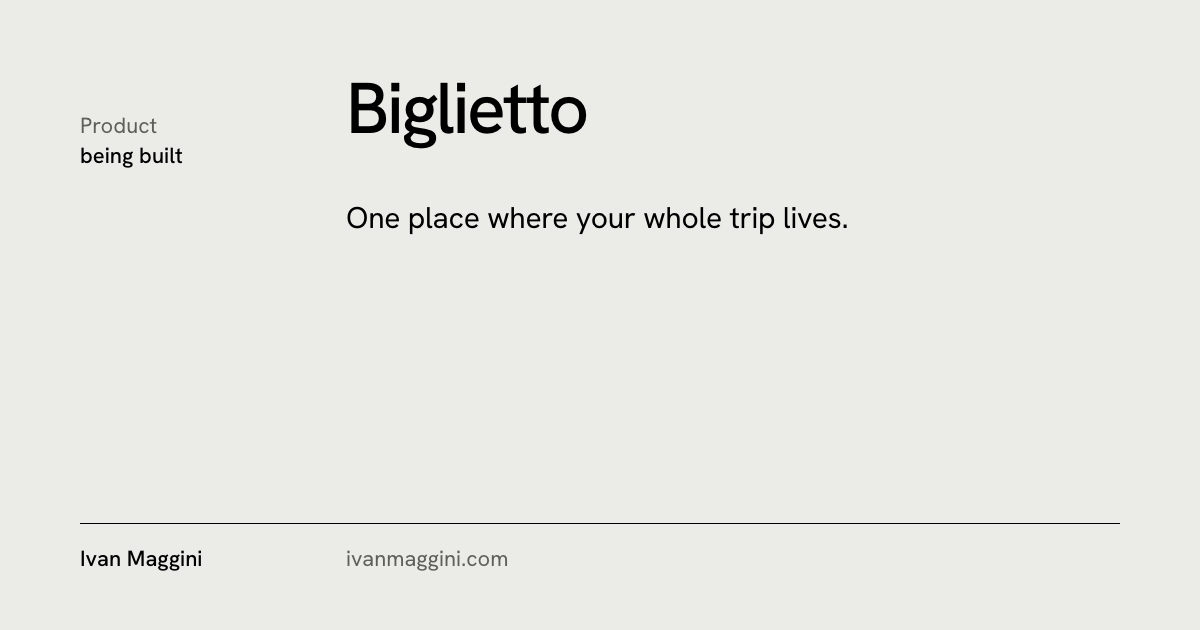
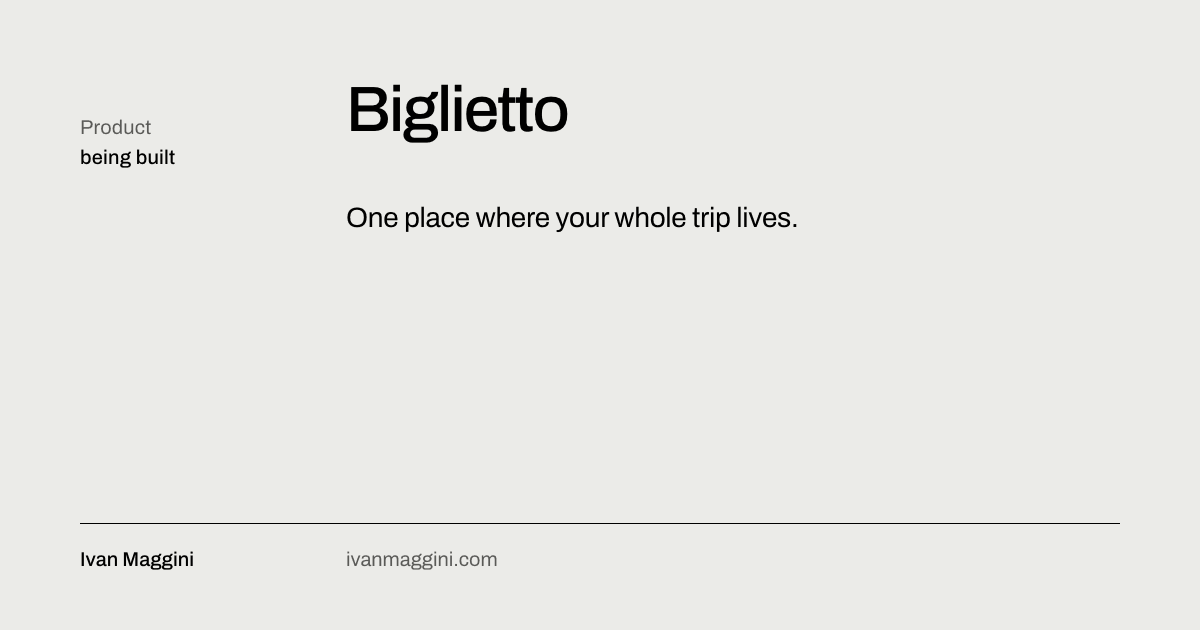
Chi sono con foto segnaposto, social nel piede, anteprime in Archivo
- Home IT ed EN: "Come lavoro" / "How I work" diventano "Chi sono" /
  "About" (#chi-sono, #about), pensati per un testo lungo: testo a 56
  caratteri e due foto segnaposto disegnate in CSS (4:5 e 3:2, sfalsate a
  destra su schermo largo, fra i paragrafi sul telefono). Nuova variabile
  --carta-scura solo per i segnaposto.
- Tolta la domanda "Da dove volete cominciare?" dal benvenuto, nelle due
  lingue.
- Piede di tutte le pagine: riga "Seguimi su" / "Follow me on" con
  Instagram, TikTok e YouTube; indirizzi segnaposto per lingua.
- Segnaposto marcati con data-provvisorio (28); CLAUDE.md elenca cosa va
  riempito prima del merge su main.
- og-biglietto, og-biglietto-en, og-privacy, og-privacy-en rifatte in
  Archivo, stessi testi, circa 10-13 KB l'una.
- Impronta del CSS rigenerata.

diff --git a/assets/site.css b/assets/site.css
@@ -52,6 +52,9 @@
   --carta: #ebebe8;
   --nero: #000000;
   --grigio: #5e5e5a;
+  /* Solo per i segnaposto delle foto: la carta un tono più scura, così il
+     riquadro si vede senza bordi né ombre. Il grigio sopra fa 4,6:1. */
+  --carta-scura: #d9d9d5;
   /* Sul campo nero il grigio della carta non passerebbe: 6,06:1. */
   --grigio-su-nero: #8a8a86;
   /* Solo sul nero (11:1). Sulla carta farebbe 1,6:1, e il vincolo tiene
@@ -301,6 +304,56 @@ a:hover { text-decoration-thickness: 2px; }
 
 @media (min-width: 940px) {
   .benvenuto-foto { grid-column: 10 / 13; grid-row: 1 / span 2; max-width: none; }
+}
+
+/* --- chi sono ------------------------------------------------------------
+   Pensata per un testo lungo. Il testo resta a sinistra in righe di circa
+   56 caratteri; le foto, messe nell'HTML fra un paragrafo e l'altro,
+   sul telefono si inseriscono nel testo e su schermo largo vanno a destra
+   (colonne 10–12), ognuna all'altezza del paragrafo che la precede. Così
+   il testo non lascia vuoti, qualunque sia la sua lunghezza. */
+
+.chi-sono .body > p { max-width: 56ch; }
+
+.foto { margin: 0; }
+
+/* Segnaposto: un riquadro piatto, un tono più scuro della carta, con
+   l'etichetta in basso a sinistra. Niente bordi, angoli o ombre. */
+.foto-riquadro {
+  display: flex;
+  align-items: flex-end;
+  padding: var(--s2);
+  background: var(--carta-scura);
+  color: var(--grigio);
+  font-size: 13px;
+  line-height: 20px;
+  letter-spacing: 0.01em;
+}
+.foto-verticale .foto-riquadro { aspect-ratio: 4 / 5; }
+.foto-orizzontale .foto-riquadro { aspect-ratio: 3 / 2; }
+.foto img { width: 100%; height: auto; }
+
+.chi-sono .foto-verticale { max-width: 75%; }
+
+@media (min-width: 940px) {
+  .chi-sono .body { display: flow-root; }
+  .chi-sono .body > * + * { margin-top: var(--s3); }
+  /* Le foto a destra, sfalsate: la verticale nelle colonne 10–12, la
+     orizzontale un po' più larga e più in basso. */
+  .chi-sono .foto {
+    float: right;
+    clear: right;
+    margin-left: var(--gutter);
+  }
+  .chi-sono .foto-verticale {
+    width: calc((100% - 8 * var(--gutter)) / 9 * 3 + 2 * var(--gutter));
+    max-width: none;
+    margin-top: var(--s5);
+  }
+  .chi-sono .foto-orizzontale {
+    width: calc((100% - 8 * var(--gutter)) / 9 * 4 + 3 * var(--gutter));
+    margin-top: var(--s6);
+  }
 }
 
 /* --- le porte -----------------------------------------------------------
@@ -790,6 +843,21 @@ a:hover { text-decoration-thickness: 2px; }
   .foot-in > .mark { grid-column: 1 / 4; font-size: 13px; line-height: 20px; }
   .foot-in > address { grid-column: 4 / 7; }
   .foot-in > nav { grid-column: 7 / 13; }
+}
+
+/* I social stanno in una riga a sé, solo testo, nello stile del piede: i
+   link sono sottolineati e in nero perché si vedano. */
+.foot .social {
+  display: flex;
+  flex-wrap: wrap;
+  gap: var(--s1) var(--s2);
+  margin: 0;
+  color: var(--grigio);
+}
+.foot .social a { color: var(--nero); font-weight: 500; }
+
+@media (min-width: 940px) {
+  .foot-in > .social { grid-column: 7 / 13; }
 }
 
 /* --- iOS: riconoscimento automatico dei dati ---------------------------

diff --git a/index.html b/index.html
@@ -25,7 +25,7 @@
 <meta name="twitter:card" content="summary_large_image">
 
 <link rel="preload" href="/assets/fonts/archivo.woff2" as="font" type="font/woff2" crossorigin>
-<link rel="stylesheet" href="/assets/site.css?v=2f8d0e2053">
+<link rel="stylesheet" href="/assets/site.css?v=c9df9c7391">
 <link rel="icon" href="/assets/favicon.svg" type="image/svg+xml">
 <link rel="apple-touch-icon" href="/assets/apple-touch-icon.png">
 
@@ -109,7 +109,6 @@
           Non ho una lunga carriera da raccontarvi e non faccio finta di
           averla. Preferisco dirvelo io prima che lo scopriate.
         </p>
-        <p class="domanda entra" style="--n:7">Da dove volete cominciare?</p>
       </div>
     </div>
     <div class="shell">
@@ -324,15 +323,28 @@
     </div>
   </section>
 
-  <section class="sec" id="come-lavoro" aria-labelledby="come-lavoro-t">
+  <!-- Chi sono: pensata per un testo lungo, con le foto fra i paragrafi.
+       Non si anima. -->
+  <section class="sec chi-sono" id="chi-sono" aria-labelledby="chi-sono-t">
     <div class="shell sec-grid">
-      <h2 class="rail" id="come-lavoro-t"><b>Come lavoro</b></h2>
+      <p class="rail">Chi sono</p>
       <div class="body">
+        <h2 id="chi-sono-t">Chi c'è dietro la camera.</h2>
+        <!-- Testo lungo: circa 100 righe (15-20 paragrafi), da scrivere con Ivan. Pensalo a blocchi con titoletti. -->
         <p>
           Ho un modo di lavorare: parto da un problema vero, insisto finché
           funziona e dico per strada anche quello che non funziona.
         </p>
-        <!-- Prossime parti di "Chi sono": 1) il percorso: i viaggi e Instagram; 2) come lavoro con un cliente; 3) Biglietto e perché non toglie tempo allo Studio; 4) una foto -->
+        <!-- Le foto vere saranno <img> con width e height espliciti,
+             loading="lazy" e un alt che descrive la scena, al posto del
+             riquadro; poi va tolto l'attributo dei segnaposto. -->
+        <figure class="foto foto-verticale" data-provvisorio>
+          <div class="foto-riquadro">Foto 1</div>
+        </figure>
+        <figure class="foto foto-orizzontale" data-provvisorio>
+          <div class="foto-riquadro">Foto 2</div>
+        </figure>
+        <!-- Prossime parti di "Chi sono": 1) il percorso: i viaggi e Instagram; 2) come lavoro con un cliente; 3) Biglietto e perché non toglie tempo allo Studio; 4) le foto -->
       </div>
     </div>
   </section>
@@ -370,6 +382,13 @@
       <a href="/privacy">Privacy</a>
       <a href="mailto:general@ivanmaggini.com">general@ivanmaggini.com</a>
     </nav>
+    <!-- sostituire i tre link con i profili veri; aprire in nuova scheda con target="_blank" rel="noopener" -->
+    <p class="social">
+      Seguimi su
+      <a href="#instagram-it" data-provvisorio>Instagram</a>
+      <a href="#tiktok-it" data-provvisorio>TikTok</a>
+      <a href="#youtube-it" data-provvisorio>YouTube</a>
+    </p>
   </div>
 </footer>
 

diff --git a/en/index.html b/en/index.html
@@ -26,7 +26,7 @@
 <meta name="twitter:card" content="summary_large_image">
 
 <link rel="preload" href="/assets/fonts/archivo.woff2" as="font" type="font/woff2" crossorigin>
-<link rel="stylesheet" href="/assets/site.css?v=2f8d0e2053">
+<link rel="stylesheet" href="/assets/site.css?v=c9df9c7391">
 <link rel="icon" href="/assets/favicon.svg" type="image/svg+xml">
 <link rel="apple-touch-icon" href="/assets/apple-touch-icon.png">
 
@@ -112,7 +112,6 @@
           I don't have a long career to tell you about, and I don't pretend
           to. I'd rather tell you myself than have you find out.
         </p>
-        <p class="domanda entra" style="--n:7">Where would you like to start?</p>
       </div>
     </div>
     <div class="shell">
@@ -170,15 +169,27 @@
     </div>
   </section>
 
-  <section class="sec" id="how-i-work" aria-labelledby="how-i-work-t">
+  <!-- Chi sono: pensata per un testo lungo, con le foto fra i paragrafi.
+       Non si anima. Tenere allineato con la versione italiana. -->
+  <section class="sec chi-sono" id="about" aria-labelledby="about-t">
     <div class="shell sec-grid">
-      <h2 class="rail" id="how-i-work-t"><b>How I work</b></h2>
+      <p class="rail">About</p>
       <div class="body">
+        <h2 id="about-t">Who's behind the camera.</h2>
+        <!-- Testo lungo: circa 100 righe (15-20 paragrafi), da scrivere con Ivan. Pensalo a blocchi con titoletti. -->
         <p>
           I have a way of working: I start from a real problem, keep at it
           until it works, and say along the way what isn't working too.
         </p>
-        <!-- Prossime parti di "Chi sono": 1) il percorso: i viaggi e Instagram; 2) come lavoro con un cliente; 3) Biglietto e perché non toglie tempo allo Studio; 4) una foto. Tenere allineato con la versione italiana. -->
+        <!-- Le foto vere saranno <img> con width e height espliciti,
+             loading="lazy" e un alt che descrive la scena, al posto del
+             riquadro; poi va tolto l'attributo dei segnaposto. -->
+        <figure class="foto foto-verticale" data-provvisorio>
+          <div class="foto-riquadro">Foto 1</div>
+        </figure>
+        <figure class="foto foto-orizzontale" data-provvisorio>
+          <div class="foto-riquadro">Foto 2</div>
+        </figure>
       </div>
     </div>
   </section>
@@ -217,6 +228,13 @@
       <a href="/en/privacy">Privacy</a>
       <a href="mailto:general@ivanmaggini.com">general@ivanmaggini.com</a>
     </nav>
+    <!-- sostituire i tre link con i profili veri; aprire in nuova scheda con target="_blank" rel="noopener" -->
+    <p class="social">
+      Follow me on
+      <a href="#instagram-en" data-provvisorio>Instagram</a>
+      <a href="#tiktok-en" data-provvisorio>TikTok</a>
+      <a href="#youtube-en" data-provvisorio>YouTube</a>
+    </p>
   </div>
 </footer>
 

diff --git a/privacy.html b/privacy.html
@@ -24,7 +24,7 @@
 <meta property="og:image:alt" content="Informativa privacy di ivanmaggini.com">
 <meta name="twitter:card" content="summary_large_image">
 <link rel="preload" href="/assets/fonts/archivo.woff2" as="font" type="font/woff2" crossorigin>
-<link rel="stylesheet" href="/assets/site.css?v=2f8d0e2053">
+<link rel="stylesheet" href="/assets/site.css?v=c9df9c7391">
 <link rel="icon" href="/assets/favicon.svg" type="image/svg+xml">
 <link rel="apple-touch-icon" href="/assets/apple-touch-icon.png">
 </head>
@@ -234,6 +234,13 @@
       <a href="/privacy">Privacy</a>
       <a href="mailto:general@ivanmaggini.com">general@ivanmaggini.com</a>
     </nav>
+    <!-- sostituire i tre link con i profili veri; aprire in nuova scheda con target="_blank" rel="noopener" -->
+    <p class="social">
+      Seguimi su
+      <a href="#instagram-it" data-provvisorio>Instagram</a>
+      <a href="#tiktok-it" data-provvisorio>TikTok</a>
+      <a href="#youtube-it" data-provvisorio>YouTube</a>
+    </p>
   </div>
 </footer>
 

diff --git a/en/404.html b/en/404.html
@@ -8,7 +8,7 @@
 <meta name="robots" content="noindex">
 <meta name="theme-color" content="#ebebe8">
 <link rel="preload" href="/assets/fonts/archivo.woff2" as="font" type="font/woff2" crossorigin>
-<link rel="stylesheet" href="/assets/site.css?v=2f8d0e2053">
+<link rel="stylesheet" href="/assets/site.css?v=c9df9c7391">
 <link rel="icon" href="/assets/favicon.svg" type="image/svg+xml">
 <link rel="apple-touch-icon" href="/assets/apple-touch-icon.png">
 </head>
@@ -64,6 +64,13 @@
       <a href="/en/privacy">Privacy</a>
       <a href="mailto:general@ivanmaggini.com">general@ivanmaggini.com</a>
     </nav>
+    <!-- sostituire i tre link con i profili veri; aprire in nuova scheda con target="_blank" rel="noopener" -->
+    <p class="social">
+      Follow me on
+      <a href="#instagram-en" data-provvisorio>Instagram</a>
+      <a href="#tiktok-en" data-provvisorio>TikTok</a>
+      <a href="#youtube-en" data-provvisorio>YouTube</a>
+    </p>
   </div>
 </footer>
 

diff --git a/404.html b/404.html
@@ -8,7 +8,7 @@
 <meta name="robots" content="noindex">
 <meta name="theme-color" content="#ebebe8">
 <link rel="preload" href="/assets/fonts/archivo.woff2" as="font" type="font/woff2" crossorigin>
-<link rel="stylesheet" href="/assets/site.css?v=2f8d0e2053">
+<link rel="stylesheet" href="/assets/site.css?v=c9df9c7391">
 <link rel="icon" href="/assets/favicon.svg" type="image/svg+xml">
 <link rel="apple-touch-icon" href="/assets/apple-touch-icon.png">
 </head>
@@ -64,6 +64,13 @@
       <a href="/privacy">Privacy</a>
       <a href="mailto:general@ivanmaggini.com">general@ivanmaggini.com</a>
     </nav>
+    <!-- sostituire i tre link con i profili veri; aprire in nuova scheda con target="_blank" rel="noopener" -->
+    <p class="social">
+      Seguimi su
+      <a href="#instagram-it" data-provvisorio>Instagram</a>
+      <a href="#tiktok-it" data-provvisorio>TikTok</a>
+      <a href="#youtube-it" data-provvisorio>YouTube</a>
+    </p>
   </div>
 </footer>
 

diff --git a/en/biglietto.html b/en/biglietto.html
@@ -26,7 +26,7 @@
 <meta name="twitter:card" content="summary_large_image">
 
 <link rel="preload" href="/assets/fonts/archivo.woff2" as="font" type="font/woff2" crossorigin>
-<link rel="stylesheet" href="/assets/site.css?v=2f8d0e2053">
+<link rel="stylesheet" href="/assets/site.css?v=c9df9c7391">
 <link rel="icon" href="/assets/favicon.svg" type="image/svg+xml">
 <link rel="apple-touch-icon" href="/assets/apple-touch-icon.png">
 </head>
@@ -154,6 +154,13 @@
       <a href="/en/privacy">Privacy</a>
       <a href="mailto:general@ivanmaggini.com">general@ivanmaggini.com</a>
     </nav>
+    <!-- sostituire i tre link con i profili veri; aprire in nuova scheda con target="_blank" rel="noopener" -->
+    <p class="social">
+      Follow me on
+      <a href="#instagram-en" data-provvisorio>Instagram</a>
+      <a href="#tiktok-en" data-provvisorio>TikTok</a>
+      <a href="#youtube-en" data-provvisorio>YouTube</a>
+    </p>
   </div>
 </footer>
 

diff --git a/en/privacy.html b/en/privacy.html
@@ -26,7 +26,7 @@
 <meta name="twitter:card" content="summary_large_image">
 
 <link rel="preload" href="/assets/fonts/archivo.woff2" as="font" type="font/woff2" crossorigin>
-<link rel="stylesheet" href="/assets/site.css?v=2f8d0e2053">
+<link rel="stylesheet" href="/assets/site.css?v=c9df9c7391">
 <link rel="icon" href="/assets/favicon.svg" type="image/svg+xml">
 <link rel="apple-touch-icon" href="/assets/apple-touch-icon.png">
 </head>
@@ -237,6 +237,13 @@
       <a href="/privacy">Italiano</a>
       <a href="mailto:general@ivanmaggini.com">general@ivanmaggini.com</a>
     </nav>
+    <!-- sostituire i tre link con i profili veri; aprire in nuova scheda con target="_blank" rel="noopener" -->
+    <p class="social">
+      Follow me on
+      <a href="#instagram-en" data-provvisorio>Instagram</a>
+      <a href="#tiktok-en" data-provvisorio>TikTok</a>
+      <a href="#youtube-en" data-provvisorio>YouTube</a>
+    </p>
   </div>
 </footer>
 

diff --git a/biglietto.html b/biglietto.html
@@ -25,7 +25,7 @@
 <meta name="twitter:card" content="summary_large_image">
 
 <link rel="preload" href="/assets/fonts/archivo.woff2" as="font" type="font/woff2" crossorigin>
-<link rel="stylesheet" href="/assets/site.css?v=2f8d0e2053">
+<link rel="stylesheet" href="/assets/site.css?v=c9df9c7391">
 <link rel="icon" href="/assets/favicon.svg" type="image/svg+xml">
 <link rel="apple-touch-icon" href="/assets/apple-touch-icon.png">
 </head>
@@ -155,6 +155,13 @@
       <a href="/privacy">Privacy</a>
       <a href="mailto:general@ivanmaggini.com">general@ivanmaggini.com</a>
     </nav>
+    <!-- sostituire i tre link con i profili veri; aprire in nuova scheda con target="_blank" rel="noopener" -->
+    <p class="social">
+      Seguimi su
+      <a href="#instagram-it" data-provvisorio>Instagram</a>
+      <a href="#tiktok-it" data-provvisorio>TikTok</a>
+      <a href="#youtube-it" data-provvisorio>YouTube</a>
+    </p>
   </div>
 </footer>
 

diff --git a/.impeccable/critique/2026-10-13T19-39-24Z__index-html.md b/.impeccable/critique/2026-10-13T19-39-24Z__index-html.md
@@ -1,0 +1,28 @@
+---
+target: index.html + en/index.html (Chi sono, social nel piede)
+total_score: 20
+max_score: 28
+na_heuristics: 7,9,10
+p0_count: 0
+p1_count: 1
+target_identity: "file:/Users/ivanmaggini/progetti/ivanmaggini-com/index.html"
+target_fingerprint: "sha256:908ec6c6957380aad63aaa3d873d40b3d50577386cc8faf58af539060b7f5214"
+target_path: /Users/ivanmaggini/progetti/ivanmaggini-com/index.html
+timestamp: 2026-10-13T19-39-24Z
+slug: index-html
+---
+Method: dual-agent (A: revisione di design · B: rilevatore + controlli meccanici). Overlay nel browser non disponibile.
+Oggetto: sezione "Chi sono" / "About" con due foto segnaposto, riga social nel piede.
+
+## Punteggio 20/28
+1:3 · 2:4 · 3:3 · 4:2 · 5:3 · 6:3 · 7:n/a · 8:2 · 9:n/a · 10:n/a
+
+## Problemi prioritari
+1. [P1] Float fragili con il testo lungo: clear:right impila le foto se il testo fra due foto è corto; la 3:2 a 4 colonne accorcia le righe accanto; gli h3 non hanno stacco proprio. layout
+2. [P2] Oggi su desktop: due righe e circa 800 px vuoti; la prima foto non si allinea al paragrafo che segue (s5 contro s3). layout
+3. [P2] Riga social più forte del nav del piede (500, sottolineata). polish
+4. [P3] Segnaposto annunciati dai lettori di schermo come gruppi vuoti; link a ancore inesistenti. audit
+5. [P3] "Foto 1/2" in italiano nella pagina inglese. clarify
+
+## Rilevatore
+Nuovo: design-system-color su #d9d9d5 (--carta-scura) assente da DESIGN.md. Noti: cramped-padding su biglietto e en/biglietto, falsi positivi. URL a 1280 e 390 pulite. Controlli meccanici superati; data-provvisorio 28.

diff --git a/CLAUDE.md b/CLAUDE.md
@@ -167,3 +167,18 @@ La seconda rete è l'header `Cache-Control: max-age=0, must-revalidate` su
   `grep -rn --include='*.html' "data-provvisorio" .` non deve dare nessun
   risultato: ogni link va sostituito con l'indirizzo vero. Il filtro sugli
   HTML serve perché senza troverebbe sempre questa riga.
+  Cosa va riempito prima del merge:
+  - **6 link social**, ripetuti nel piede di tutte le pagine: 3 italiani
+    (`#instagram-it`, `#tiktok-it`, `#youtube-it`) sulle pagine IT e 3
+    inglesi (`#instagram-en`, `#tiktok-en`, `#youtube-en`) sulle pagine EN,
+    senza mischiare le lingue; con `target="_blank" rel="noopener"`;
+  - **2 foto di "Chi sono"** (`figure.foto`), in `index.html` e in
+    `en/index.html`: `<img>` con `width` e `height`, `loading="lazy"` e un
+    `alt` che descrive la scena;
+  - **la foto del benvenuto**, `assets/ivan.jpg`, in tutte e due le home.
+    Oggi è solo un commento HTML, senza `data-provvisorio`: il grep non la
+    trova, va controllata a mano.
+
+  Quando arrivano i link veri vanno aggiornati anche il `sameAs` del
+  JSON-LD nelle due home e il link a Instagram in `en/biglietto.html`, che
+  oggi punta al profilo italiano.
